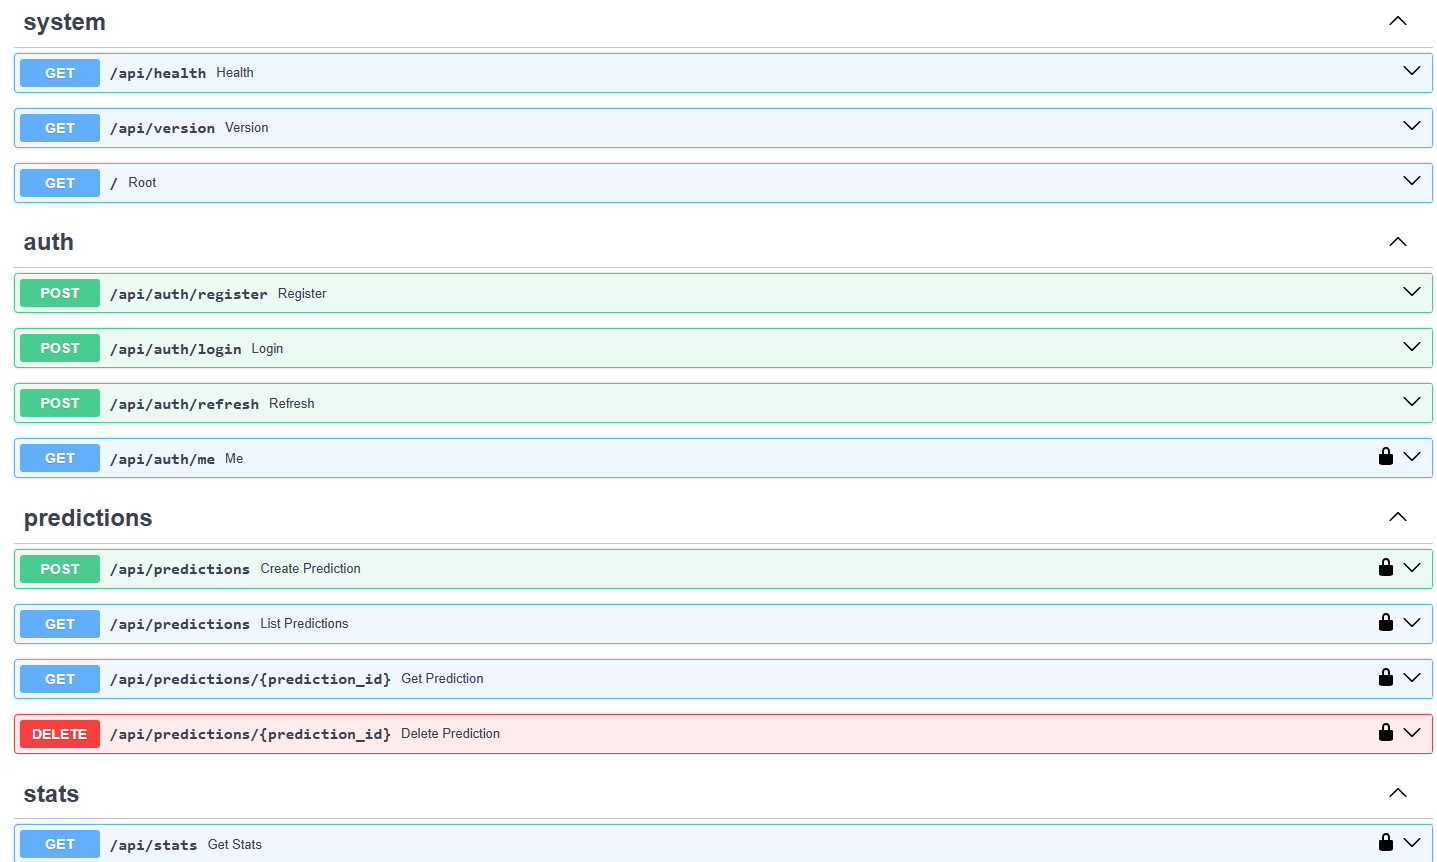
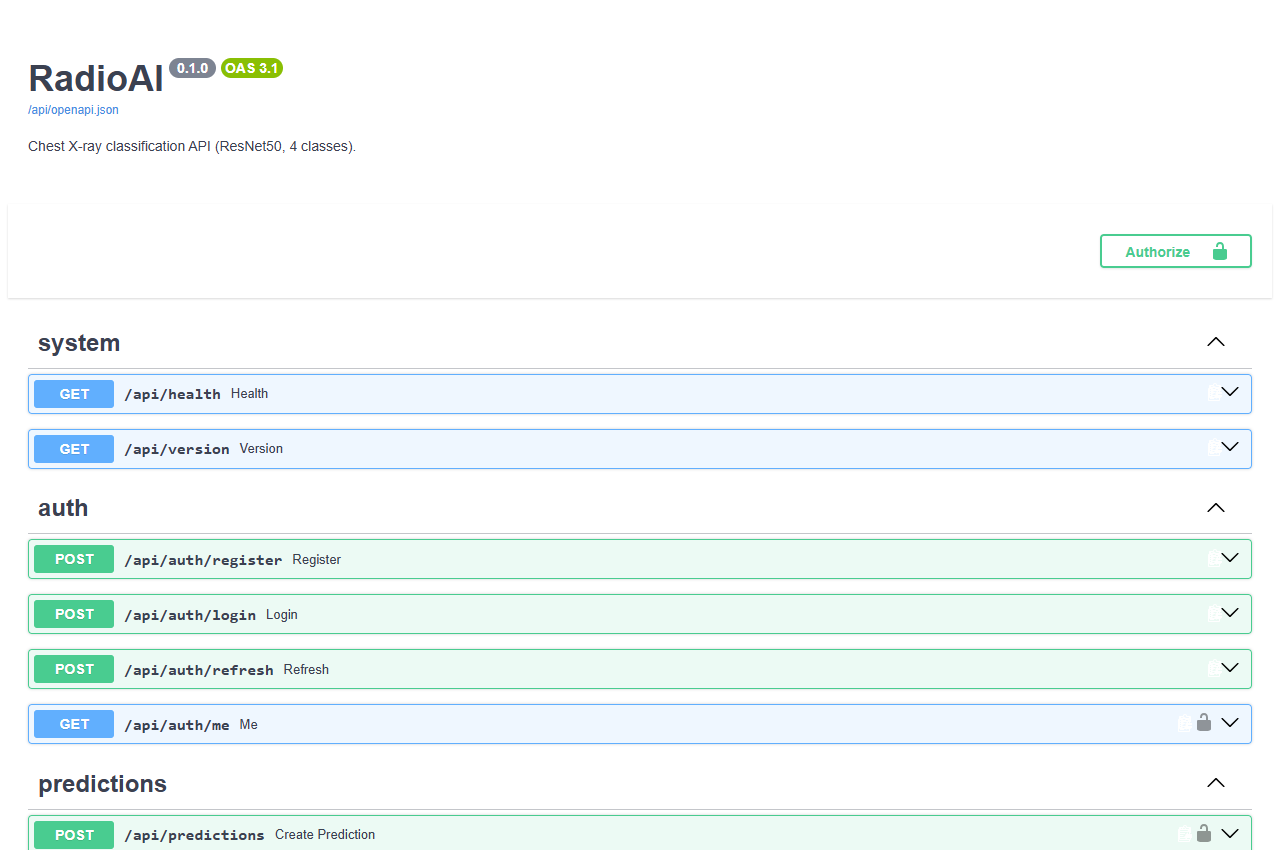
docs: add animated demo gif and refresh light theme screenshots with multi-llm consensus and finops

diff --git a/backend/app/services/llm_report.py b/backend/app/services/llm_report.py
@@ -63,6 +63,7 @@ def _store_in_cache(key: str, rep: ReportResponse) -> None:
         del _REPORT_CACHE[first_key]
     _REPORT_CACHE[key] = rep
 
+
 # Medical ICD-10 and Clinical findings reference dictionary
 CLINICAL_KNOWLEDGE = {
     0: {  # Covid-19

diff --git a/README.md b/README.md
@@ -45,20 +45,25 @@ Para testar a plataforma sem necessidade de clonar o repositório ou instalar de
 ## 📸 Demonstração da Estação PACS & Recursos
 
 <p align="center">
-  <img src="docs/screenshots/predicao_1.png" alt="Predição com Grad-CAM" width="88%">
+  <img src="docs/demo.gif" alt="Demonstração do RadioAI em Ação" width="96%">
 </p>
 
-<p align="center"><em>Estação PACS médica com <strong>mapa de atenção Grad-CAM</strong>: a rede neural classifica o raio-X e destaca as regiões pulmonares de maior relevância diagnóstica, garantindo explicabilidade clínica.</em></p>
+<p align="center"><em>Fluxo completo de triagem radiológica: autenticação clínica com conta demo (1-click), galeria de casos reais, inferência ResNet-50 com Grad-CAM++, laudo estruturado com telemetria FinOps, consenso multi-IA comparativo, auditoria com hash forense e dashboard analítico.</em></p>
 
-| Painel Analítico & FinOps | Documentação Interativa da API (Swagger) |
+| Estação PACS & Explicabilidade Grad-CAM | Consenso Radiológico Multi-IA Lado a Lado |
 | :---: | :---: |
-| <img src="docs/screenshots/painel_1.png" alt="Painel de métricas" width="100%"> | <img src="docs/screenshots/swagger.png" alt="Documentação Swagger da API" width="100%"> |
-| Volume total, distribuição por patologia, telemetria de tokens e custos estimados por LLM. | API RESTful assíncrona documentada automaticamente (OpenAPI 3.1) com autenticação JWT. |
+| <img src="docs/screenshots/predicao_1.png" alt="Predição com Grad-CAM" width="100%"> | <img src="docs/screenshots/laudo_comparativo.png" alt="Consenso Radiológico Multi-IA" width="100%"> |
+| Mapa de calor Grad-CAM destacando opacidades pulmonares com slider de opacidade e presets de windowing (*Osso, Pulmão, Mediastino*). | Painel de consenso comparando diagnósticos, achados, CID-10 e divergências entre múltiplos modelos neurais (Gemini, DeepSeek, Qwen, etc.). |
 
-| Histórico Clínico & Filtro OOD | Detalhe Diagnóstico & Probabilidades |
+| Laudo Clínico & Telemetria FinOps | Painel Analítico & Epidemiologia |
 | :---: | :---: |
-| <img src="docs/screenshots/historico_1.png" alt="Histórico de predições" width="100%"> | <img src="docs/screenshots/historico_2.png" alt="Detalhe da predição" width="100%"> |
-| Histórico filtrável por patologia. Imagens que não são raio-X são marcadas como **Out of Distribution**, impedindo diagnósticos incorretos. | Distribuição calibrada de probabilidades entre todas as classes diagnósticas e visualização em alta resolução. |
+| <img src="docs/screenshots/laudo_finops.png" alt="Laudo e FinOps" width="100%"> | <img src="docs/screenshots/painel_1.png" alt="Painel de métricas" width="100%"> |
+| Laudo estruturado por IA com badge <code>⚡ Cache Hit (0 Tokens)</code>, contagem de tokens de entrada/saída, latência e custo estimado em USD. | Métricas operacionais em tempo real: volume por patologia, série temporal de triagem e vigilância epidemiológica hospitalar. |
+
+| Histórico Clínico & Rejeição OOD | Documentação Interativa da API (Swagger) |
+| :---: | :---: |
+| <img src="docs/screenshots/historico_1.png" alt="Histórico de predições" width="100%"> | <img src="docs/screenshots/swagger.png" alt="Documentação Swagger da API" width="100%"> |
+| Trilha de auditoria imutável com detecção de dados fora da distribuição (**OOD**), hash forense SHA-256 e download de laudos em PDF. | API RESTful assíncrona documentada automaticamente (OpenAPI 3.1) com suporte a uploads DICOM PS 3.15 e autenticação JWT. |
 
 ---
 
